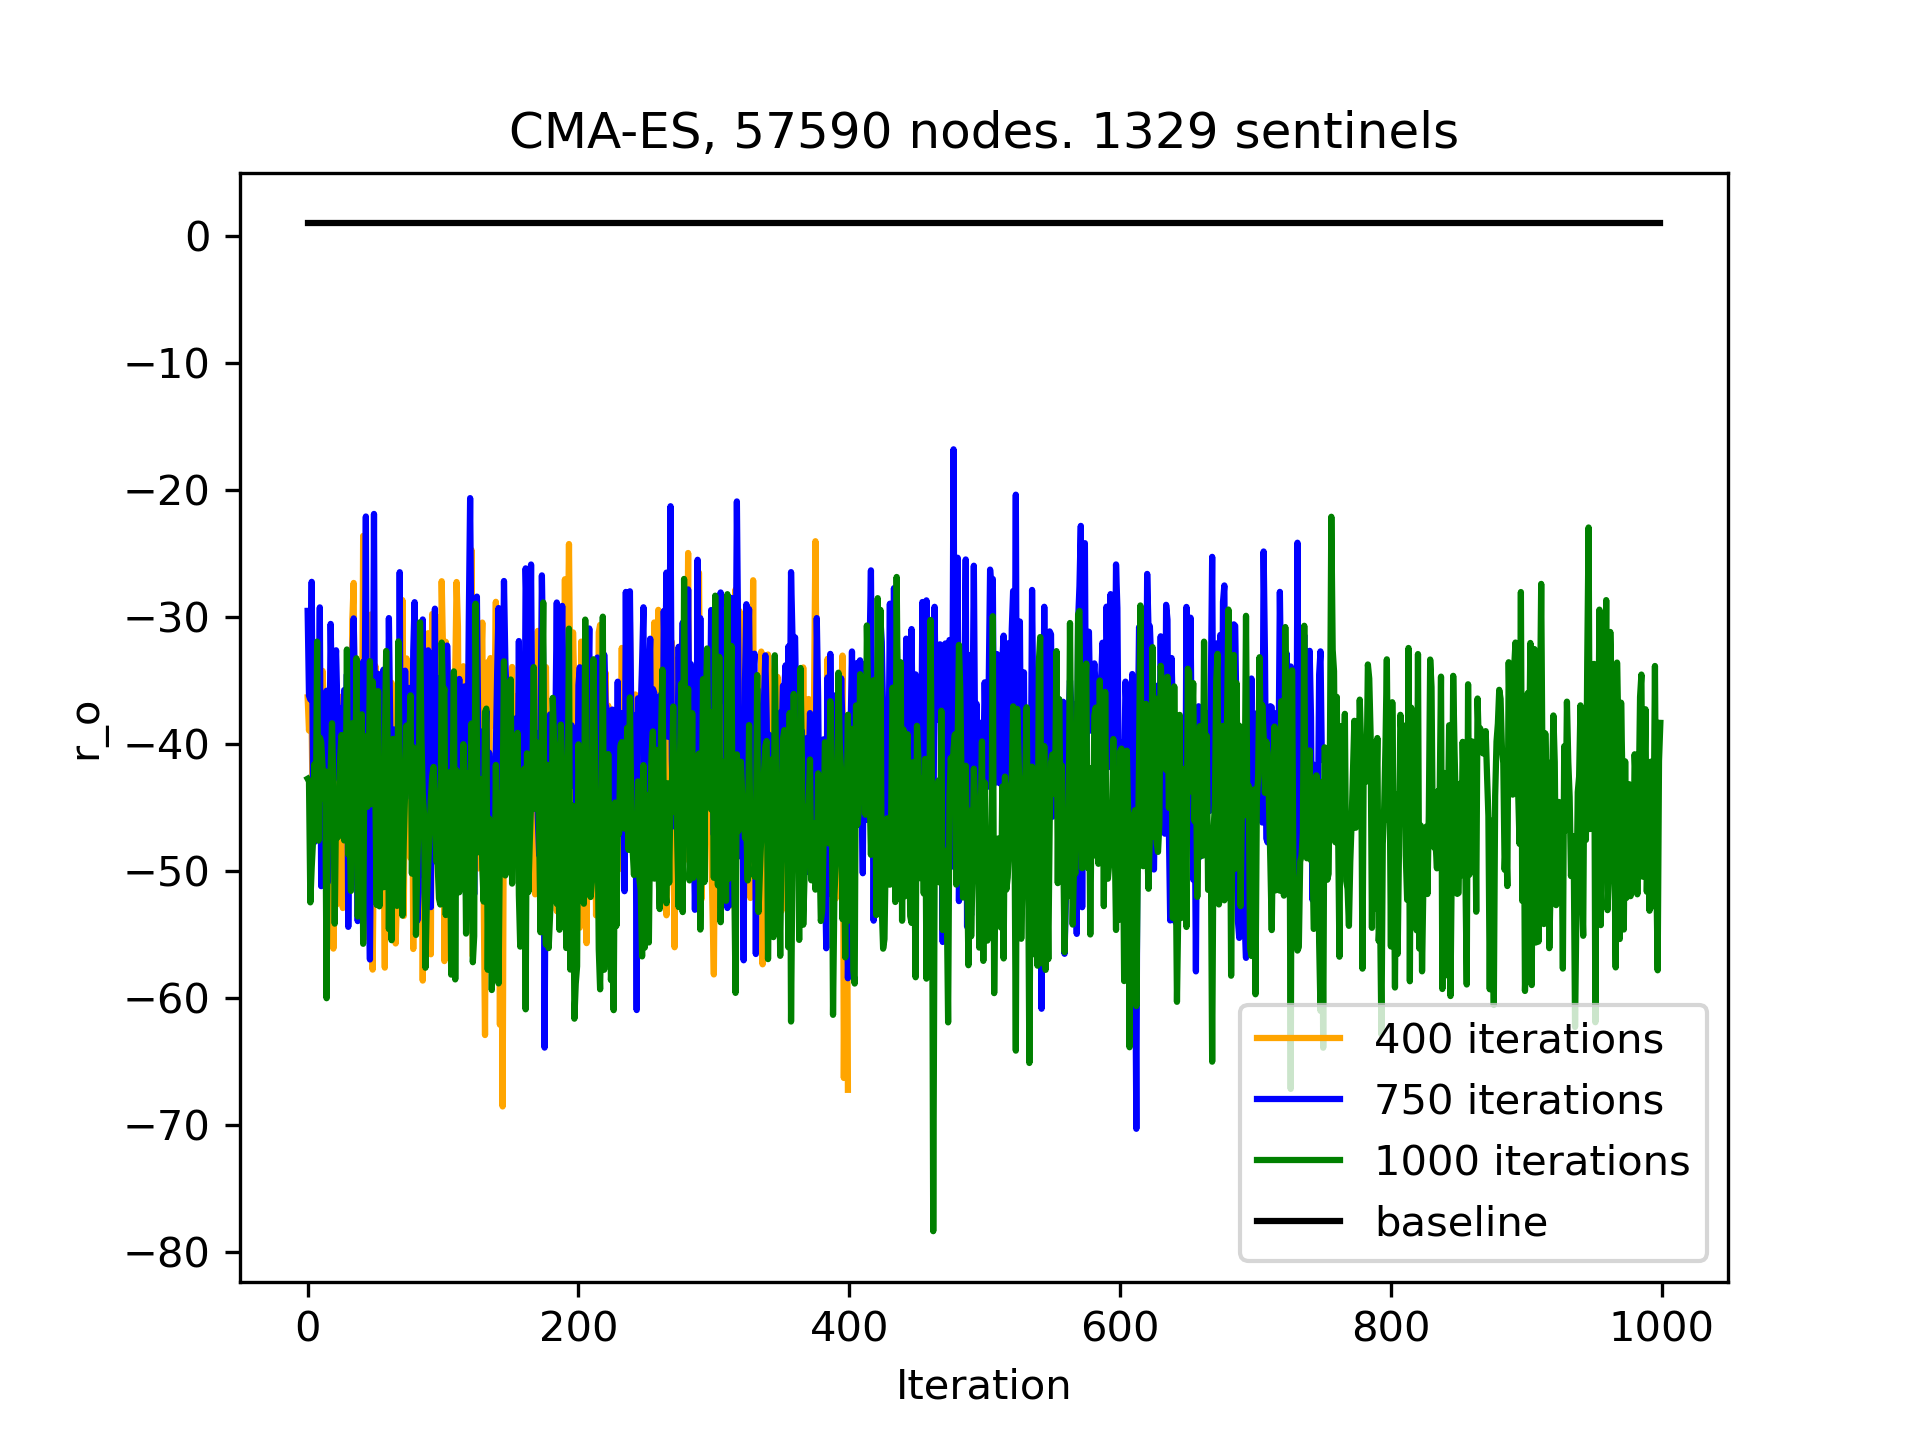
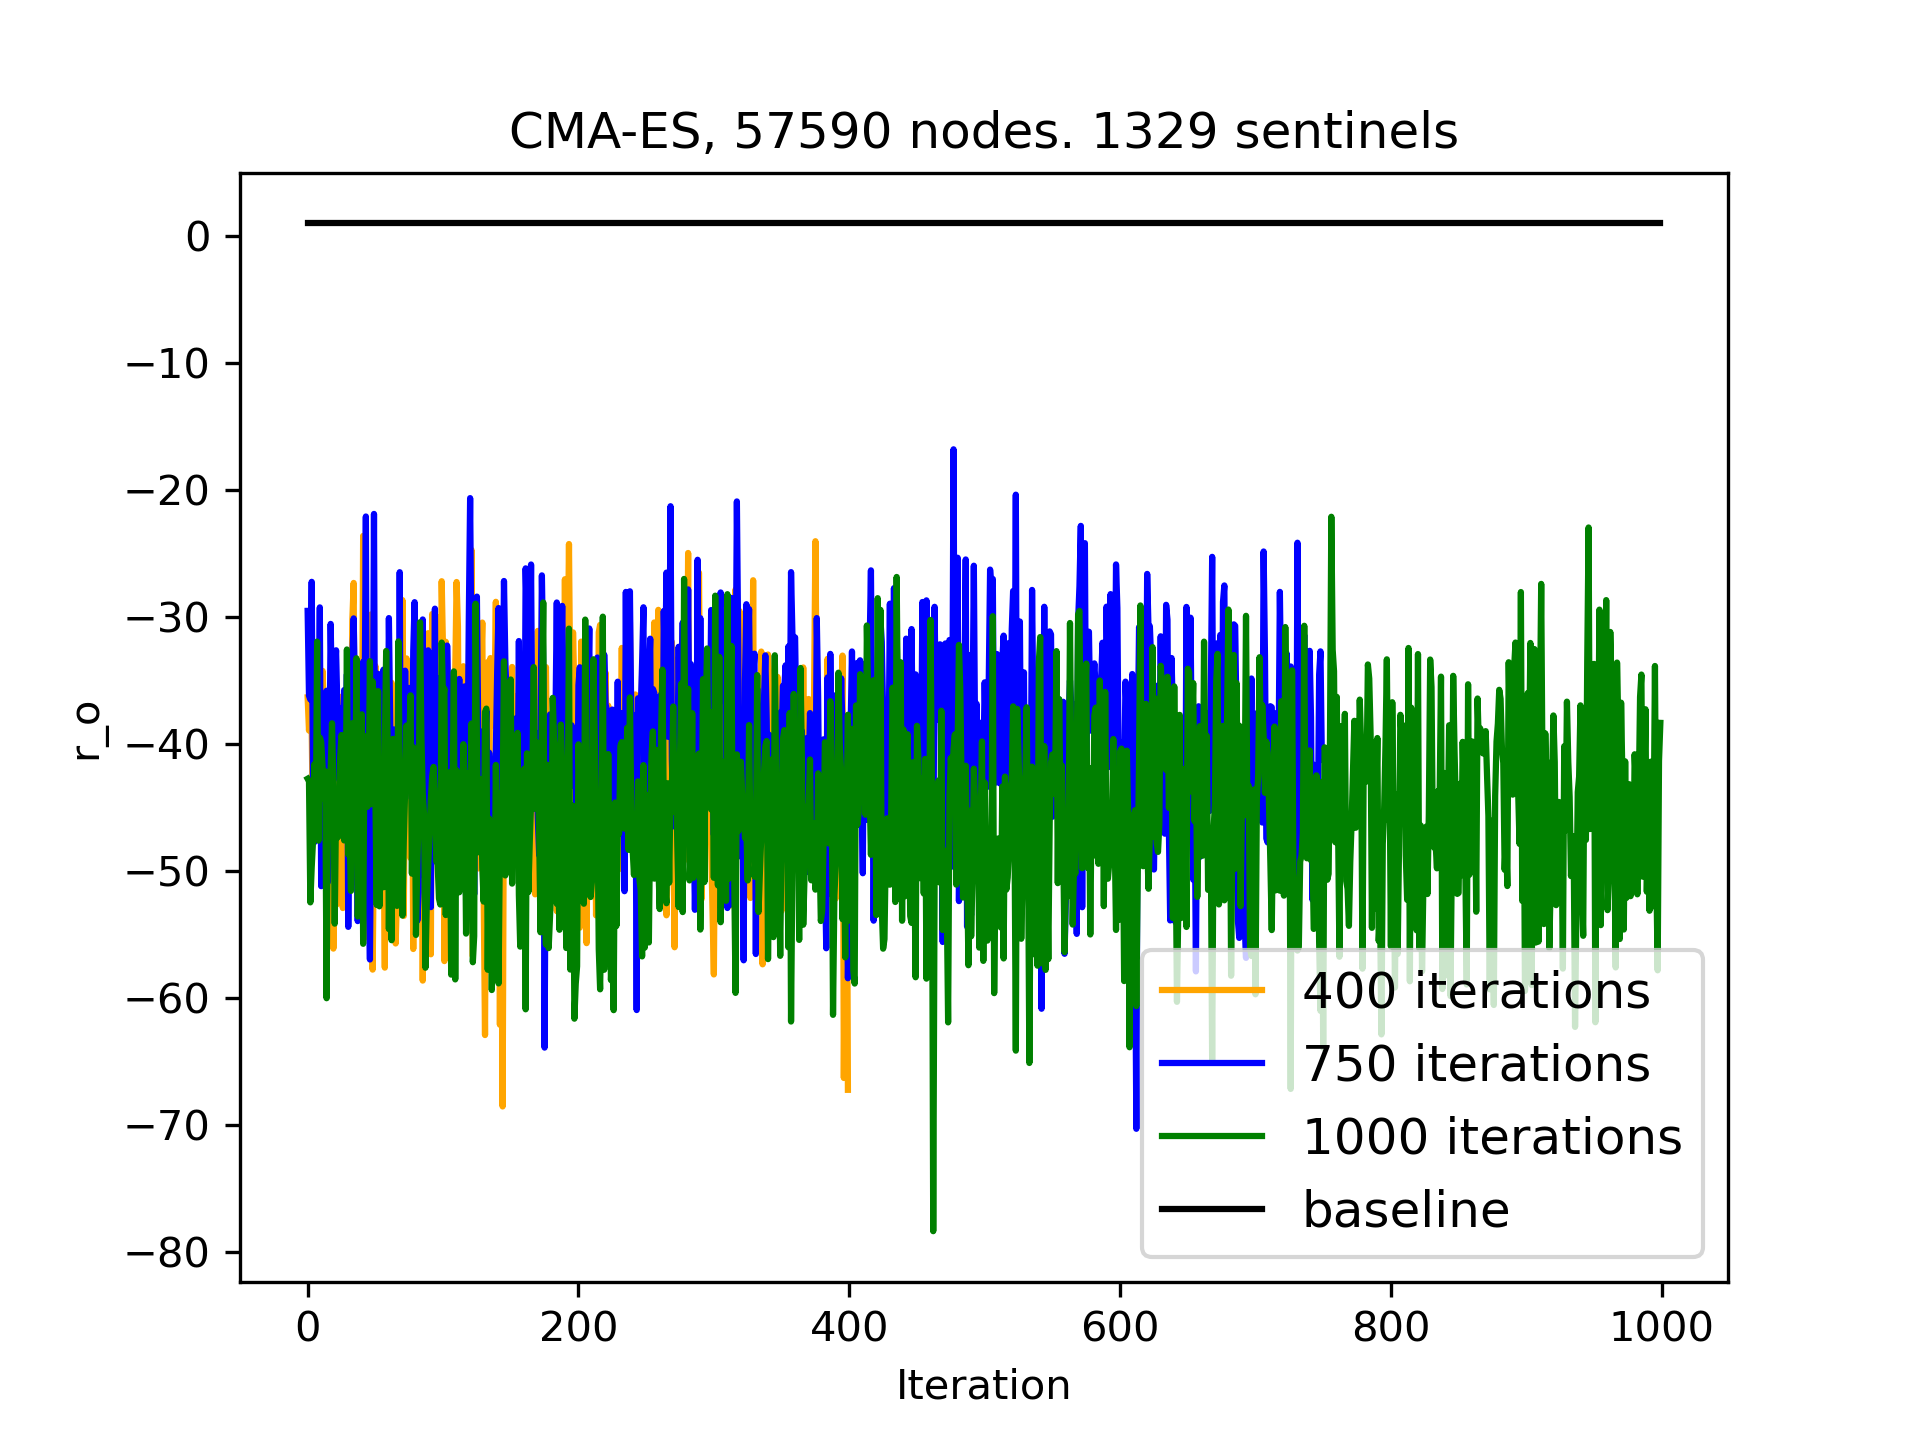
updated font size in plots

Changed region(s): [[0.5938, 0.6562, 0.9062, 0.875]]

diff --git a/src/explore_target_function.py b/src/explore_target_function.py
@@ -1,0 +1,66 @@
+import json
+from pyoptes import bo_plot_effect_of_different_sentinels
+import os
+
+
+def load_data(path_data):
+    explo_data = []
+
+    for pd in path_data:
+        with open(os.path.join(path, pd), 'r') as fp:
+            data = json.load(fp)
+        # convert the string in the loaded json to the types above
+        data['sentinels'] = list(map(int, data['sentinels']))
+        data['mean'] = list(map(float, data['mean']))
+        data['stderr'] = list(map(float, data['stderr']))
+        data['minimum'] = [int(list(data['minimum'])[0]), float(list(data['minimum'])[1])]
+        data['n_nodes'] = int(data['n_nodes'])
+        data['n_runs'] = list(map(int, data['n_runs']))
+        data['n_simulations'] = int(data['n_simulations'])
+        data['scale_total_budget'] = int(data['scale_total_budget'])
+        data['step_size'] = int(data['step_size'])
+        data['statistic'] = str(data['statistic'])
+        data['mode_choose_sentinels'] = str(data['mode_choose_sentinels'])
+
+        explo_data.append(data)
+
+    return explo_data
+
+
+if __name__=="__main__":
+
+    path = '../data/blackbox_learning/results/exploration'
+
+    path_data = ['120_nodes_syn_graph_capacity_mode.json',
+                 '120_nodes_syn_graph_degree_mode.json',
+                 '120_nodes_ba_graph_degree_mode.json',
+                 '120_nodes_waxman_graph_degree_mode.json']
+
+    explo_data = load_data(path_data)
+
+    bo_plot_effect_of_different_sentinels(data=explo_data,
+                                          path_experiment=path,
+                                          title=f'Simulations with increasing number of sentinels. 120 nodes')
+    # ---------------------------------------------------------------------------
+
+    path_data = ['1040_nodes_syn_graph_capacity_mode.json',
+                 '1040_nodes_syn_graph_degree_mode.json',
+                 '1040_nodes_ba_graph_degree_mode.json',
+                 '1040_nodes_waxman_graph_degree_mode.json']
+
+    explo_data = load_data(path_data)
+
+    bo_plot_effect_of_different_sentinels(data=explo_data,
+                                          path_experiment=path,
+                                          title=f'Simulations with increasing number of sentinels. 1040 nodes')
+
+    # ---------------------------------------------------------------------------
+
+    path_data = ['57590_nodes_syn_graph_capacity_mode.json',
+                    '57590_nodes_syn_graph_degree_mode.json',]
+
+    explo_data = load_data(path_data)
+
+    bo_plot_effect_of_different_sentinels(data=explo_data,
+                                            path_experiment=path,
+                                            title=f'Simulations with increasing number of sentinels. 57590 nodes')

diff --git a/src/pyoptes/optimization/budget_allocation/blackbox_learning/utils_plots.py b/src/pyoptes/optimization/budget_allocation/blackbox_learning/utils_plots.py
@@ -234,8 +234,9 @@ def bo_plot_effect_of_different_sentinels(path_experiment: str,
 
     colors = ['orange', 'blue', 'green', 'red']
     for i, d in enumerate(data):
-        plt.axvspan(d['minimum'][0]-int(d['step_size']/2),
-                    d['minimum'][0]+int(d['step_size']/2), alpha=0.5, color=colors[i],
+
+        plt.axvspan(d['minimum'][0]-d['step_size']/2,
+                    d['minimum'][0]+d['step_size']/2, alpha=0.5, color=colors[i],
                     label=f'{d["graph_type"]}-network, '
                           f'choose sentinels by {d["mode_choose_sentinels"]}. '
                           f'Minimum at {d["minimum"][0]} sentinels')
@@ -245,8 +246,9 @@ def bo_plot_effect_of_different_sentinels(path_experiment: str,
     plt.title(title)
     plt.xlabel('Number of sentinels')
     plt.ylabel('Infected animals')
-    plt.rc('legend', fontsize=7)
-    plt.legend()
+    # plt.rc('legend', fontsize=7)
+    plt.legend(prop={'size': 8.2})
+    # plt.legend()
 
     plt.savefig(os.path.join(path_experiment,
                              f'Sentinel_budgets_{d["n_nodes"]}_nodes_mode_{d["mode_choose_sentinels"]}.png'),

diff --git a/src/combine_plots.py b/src/combine_plots.py
@@ -145,7 +145,7 @@ if __name__ == '__main__':
 
     path = '../data/blackbox_learning/results/'
 
-    if False:
+    if True:
         # ----------------------------------------------------------------------------------------------
         # gpgo 1040 default + 4N budget. 12N budget + UCB
         # Load the data
